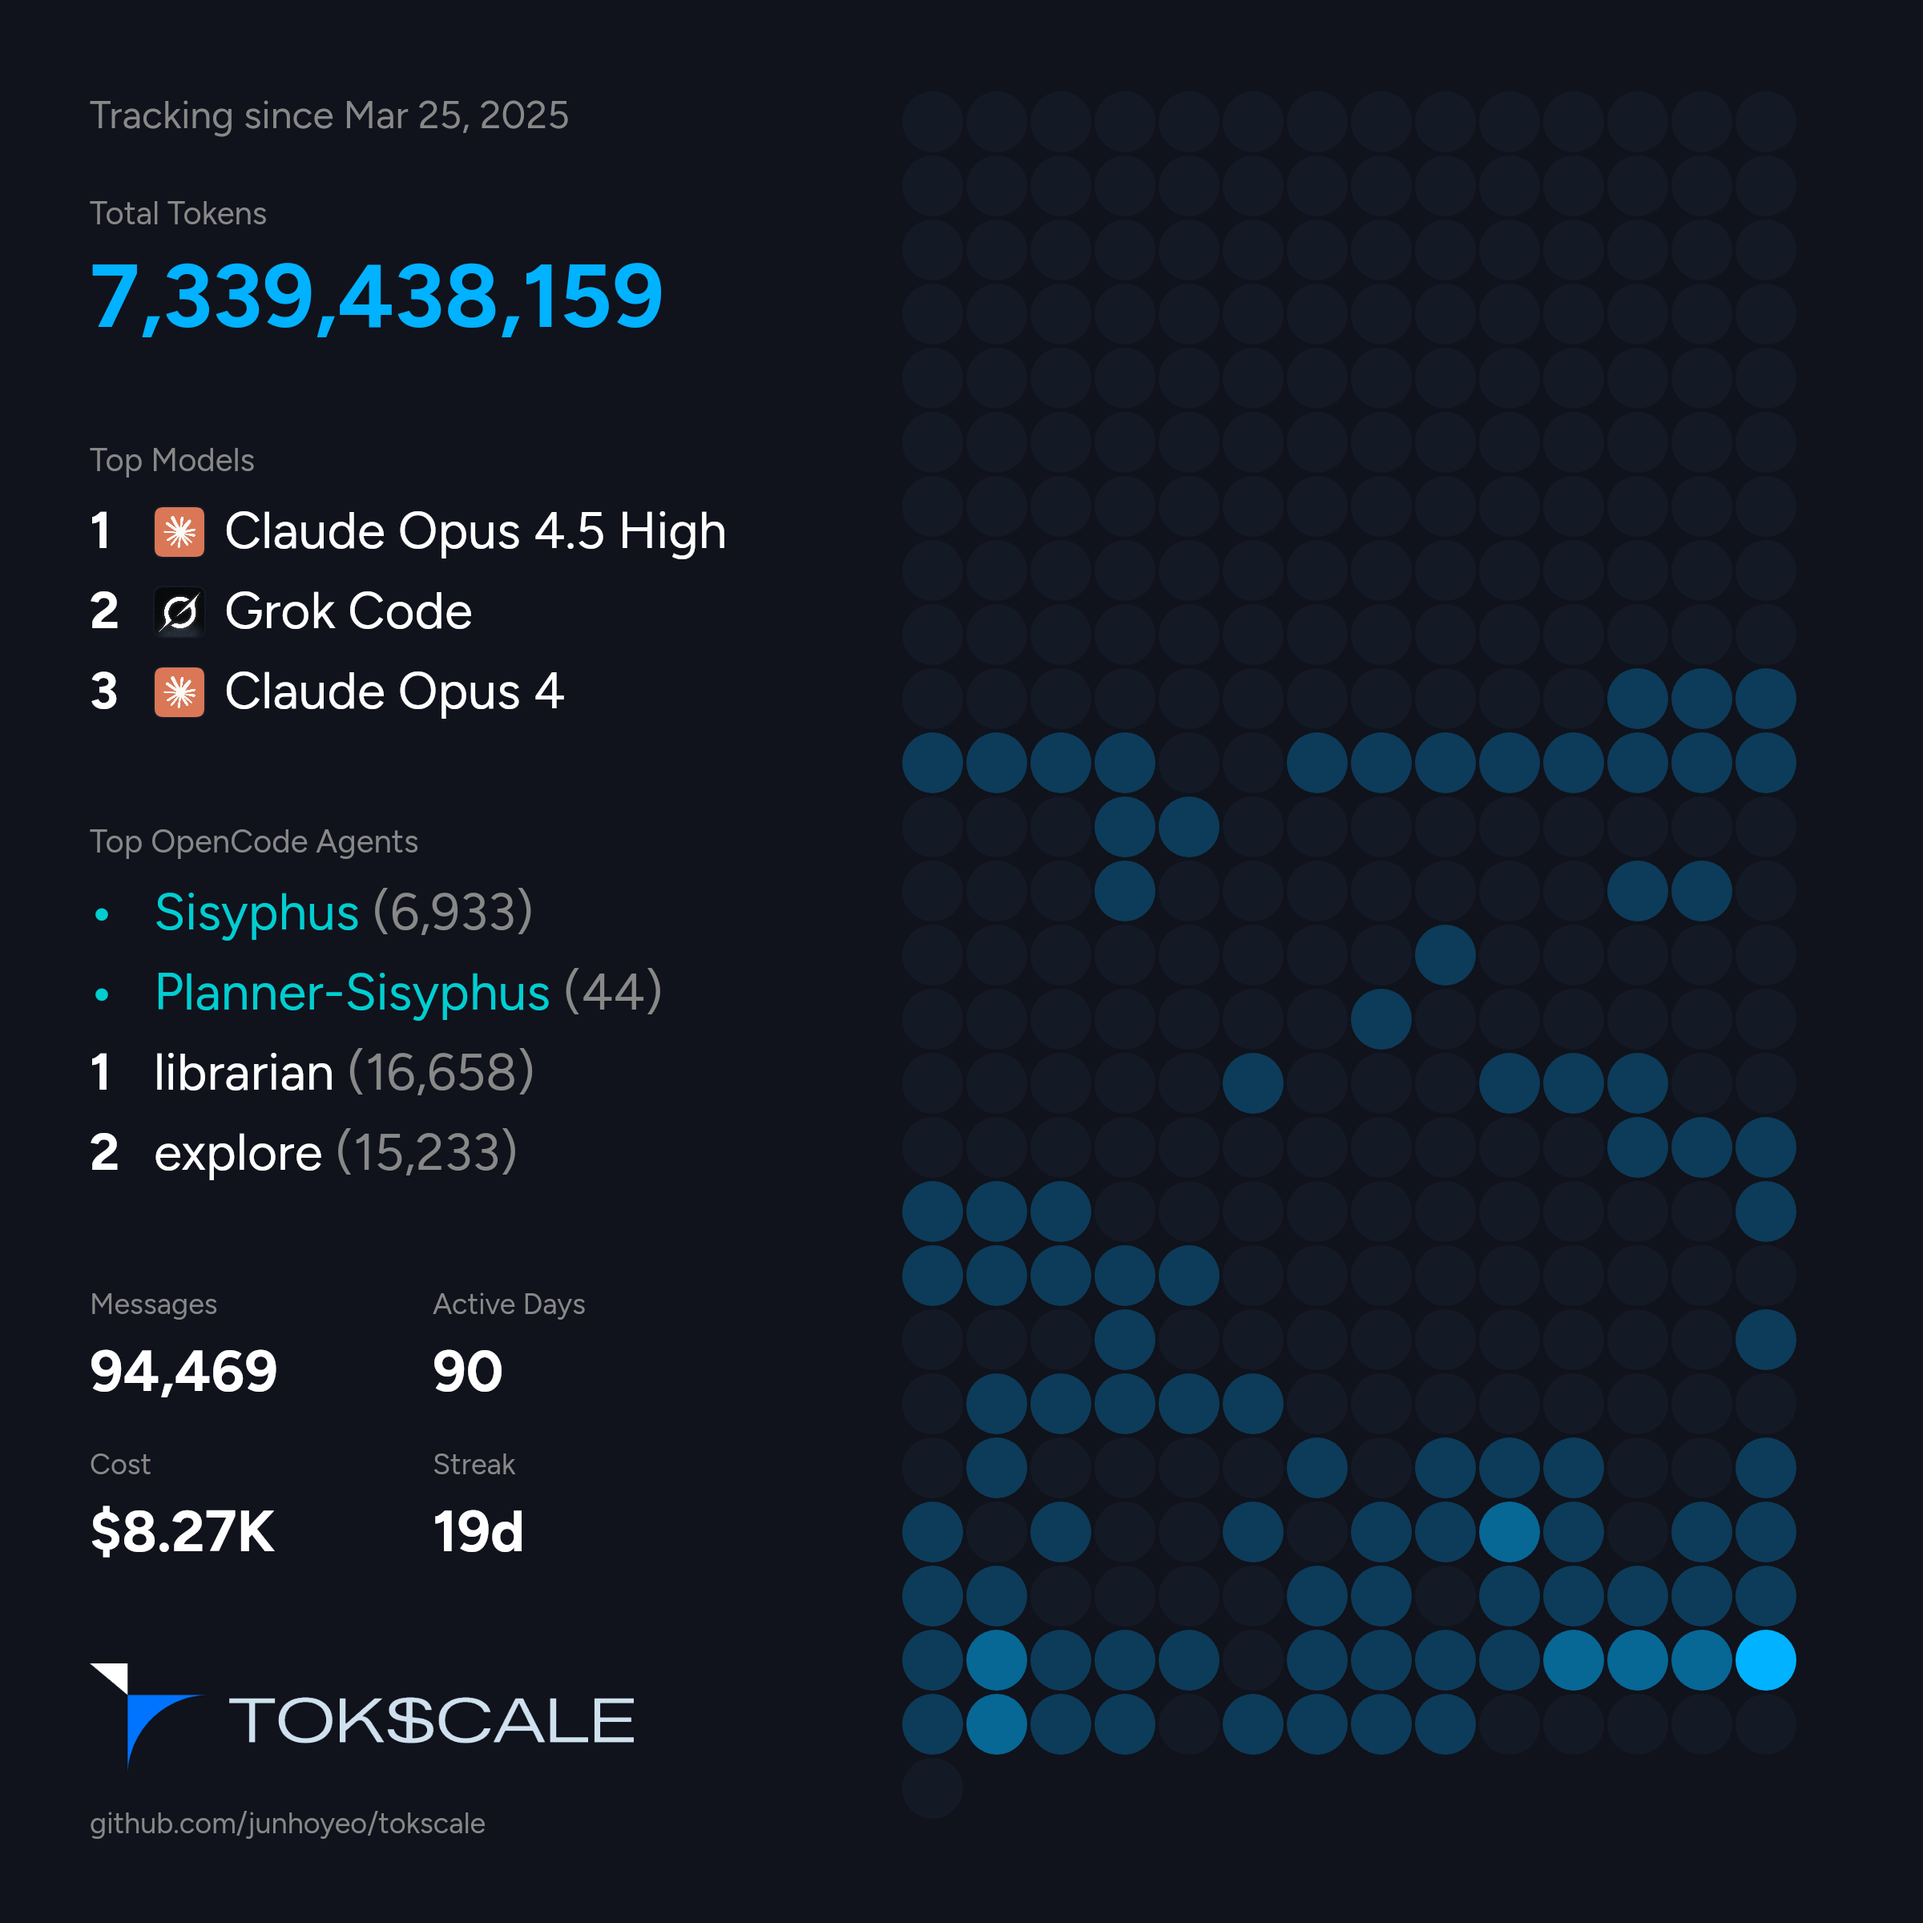
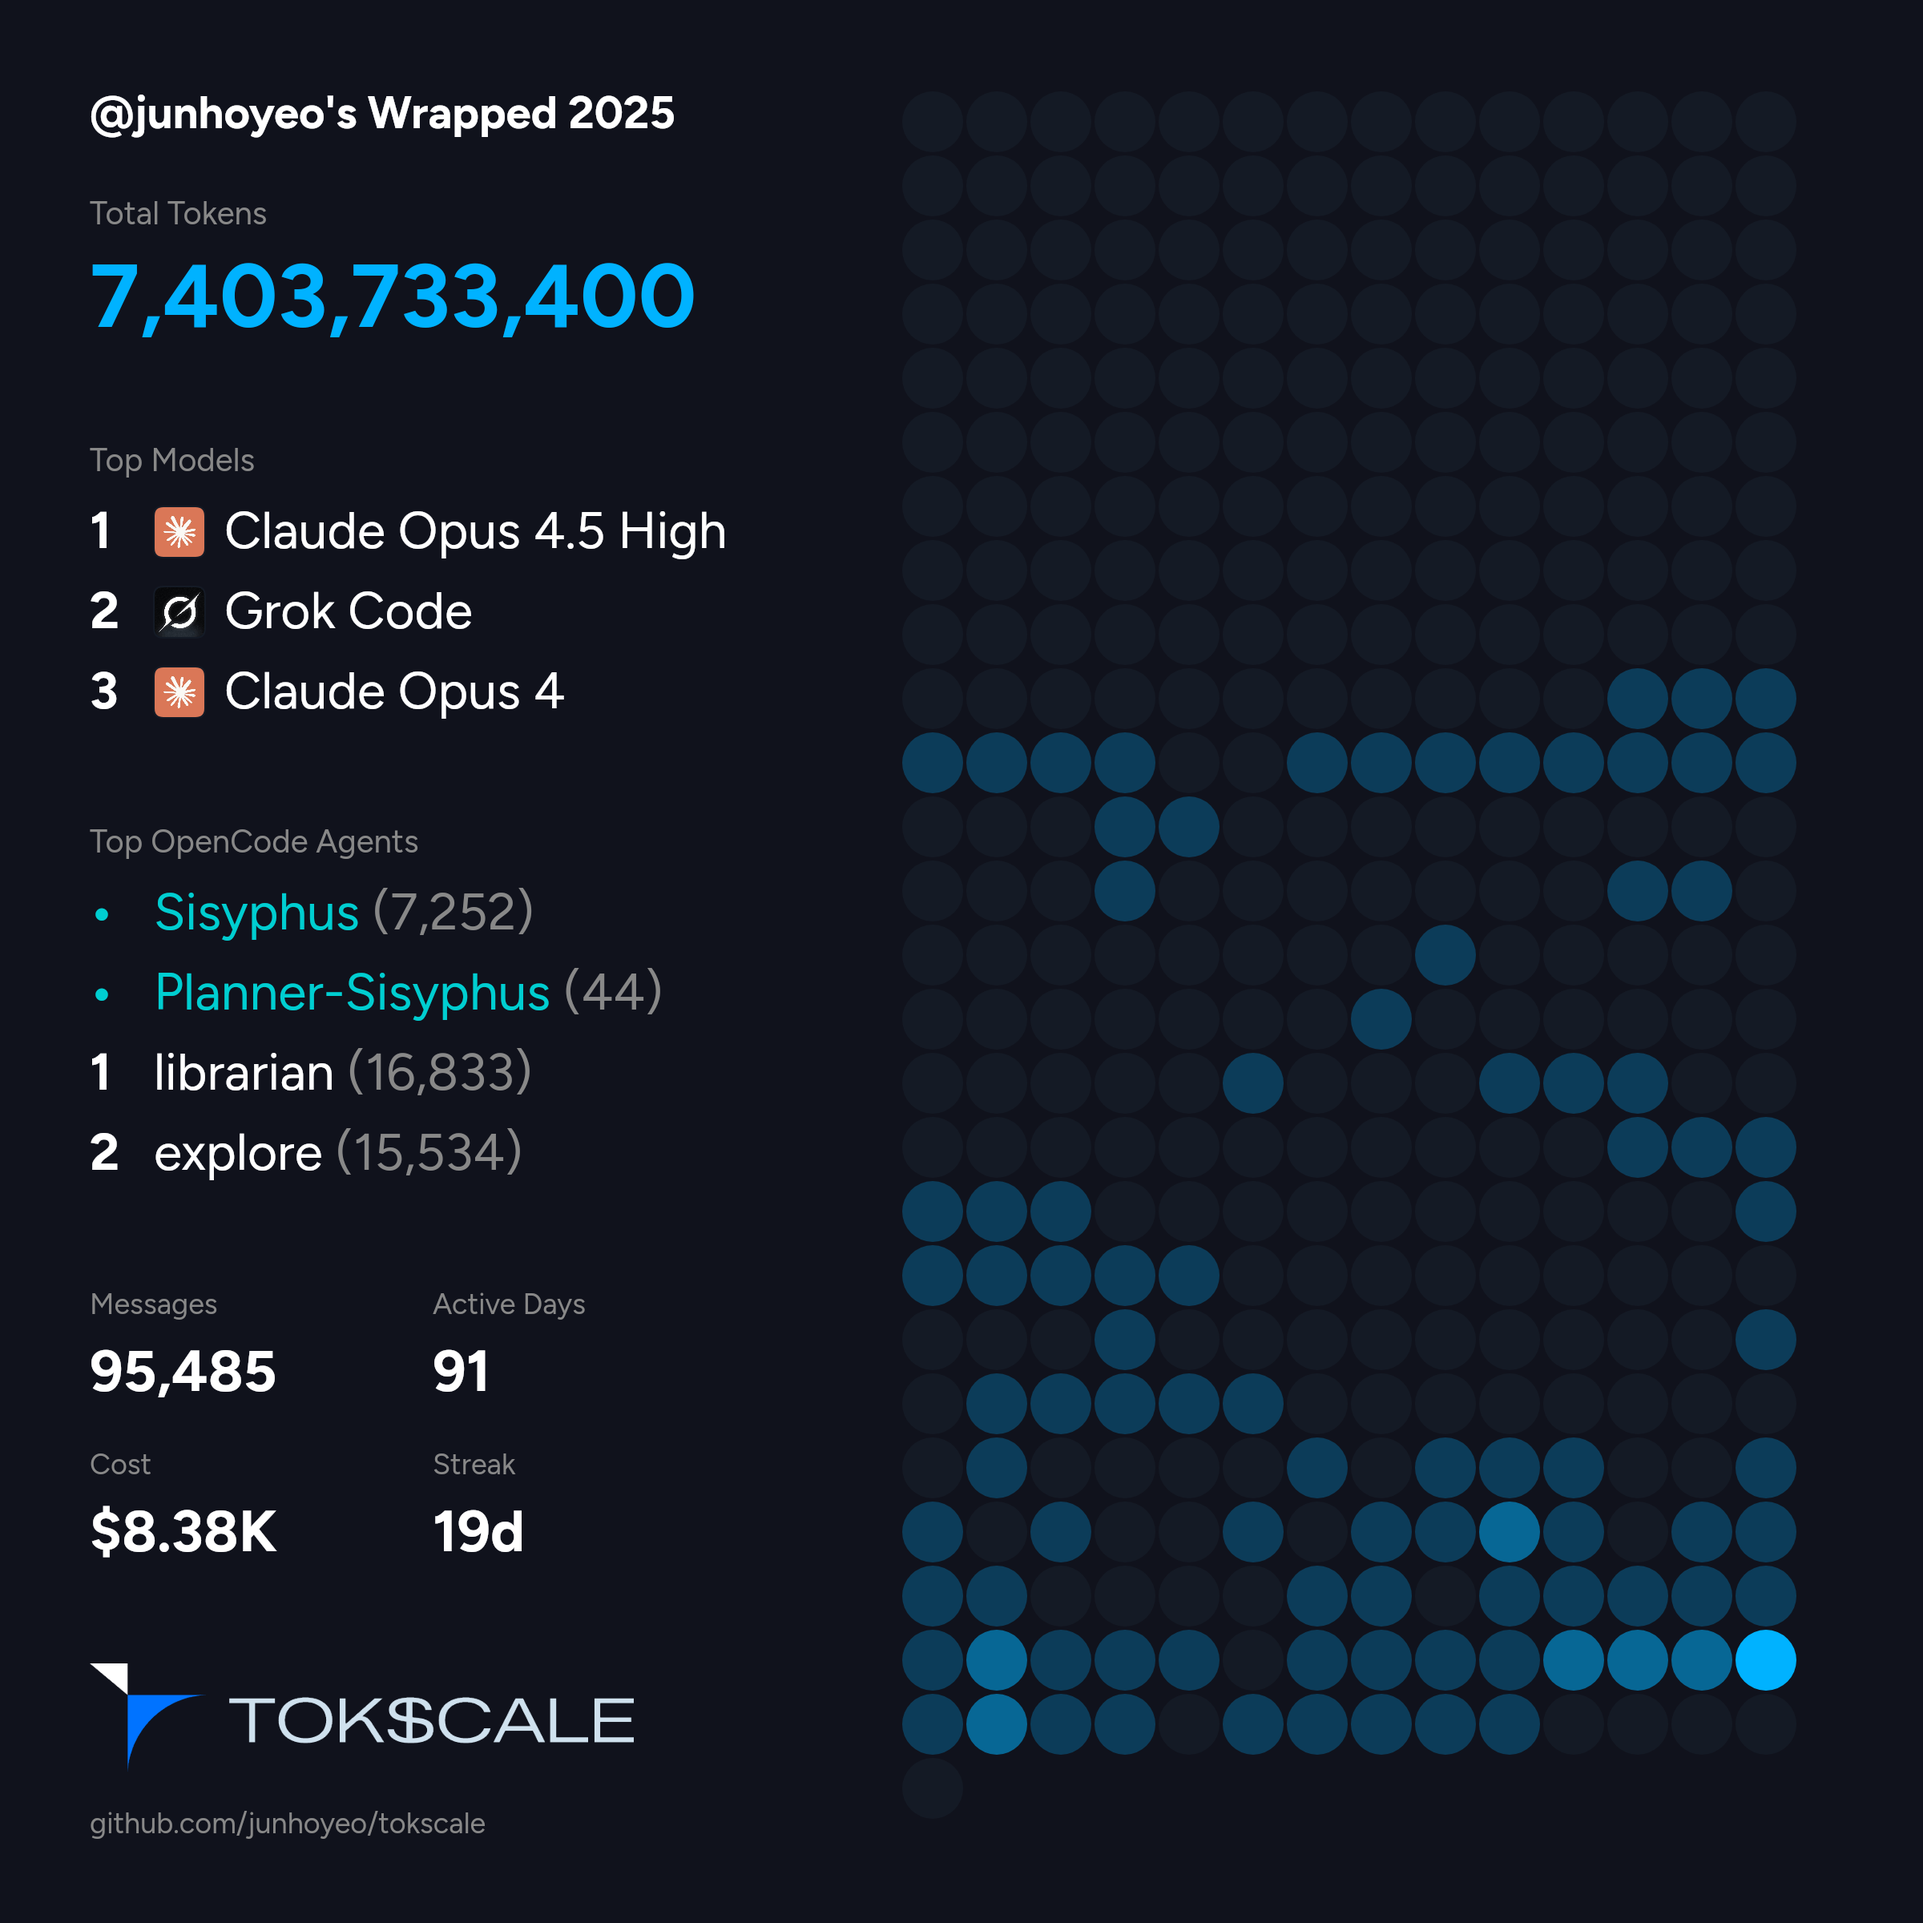
:sparkles: feat(wrapped): show personalized title with username when logged in

diff --git a/packages/cli/src/wrapped.ts b/packages/cli/src/wrapped.ts
@@ -11,6 +11,7 @@ import {
 } from "./native.js";
 import { PricingFetcher } from "./pricing.js";
 import { syncCursorCache, loadCursorCredentials } from "./cursor.js";
+import { loadCredentials } from "./credentials.js";
 import type { SourceType } from "./graph-types.js";
 
 interface WrappedData {
@@ -640,9 +641,13 @@ async function generateWrappedImage(data: WrappedData, options: { short?: boolea
 
   let yPos = PADDING + 24 * SCALE;
 
-  ctx.fillStyle = COLORS.textSecondary;
-  ctx.font = `${24 * SCALE}px Figtree, sans-serif`;
-  ctx.fillText(`Tracking since ${formatDate(data.firstDay)}`, PADDING, yPos);
+  const credentials = loadCredentials();
+  const titleText = credentials
+    ? `@${credentials.username}'s Wrapped ${data.year}`
+    : `My Wrapped ${data.year}`;
+  ctx.fillStyle = COLORS.textPrimary;
+  ctx.font = `bold ${28 * SCALE}px Figtree, sans-serif`;
+  ctx.fillText(titleText, PADDING, yPos);
   yPos += 60 * SCALE;
 
   ctx.fillStyle = COLORS.textSecondary;
